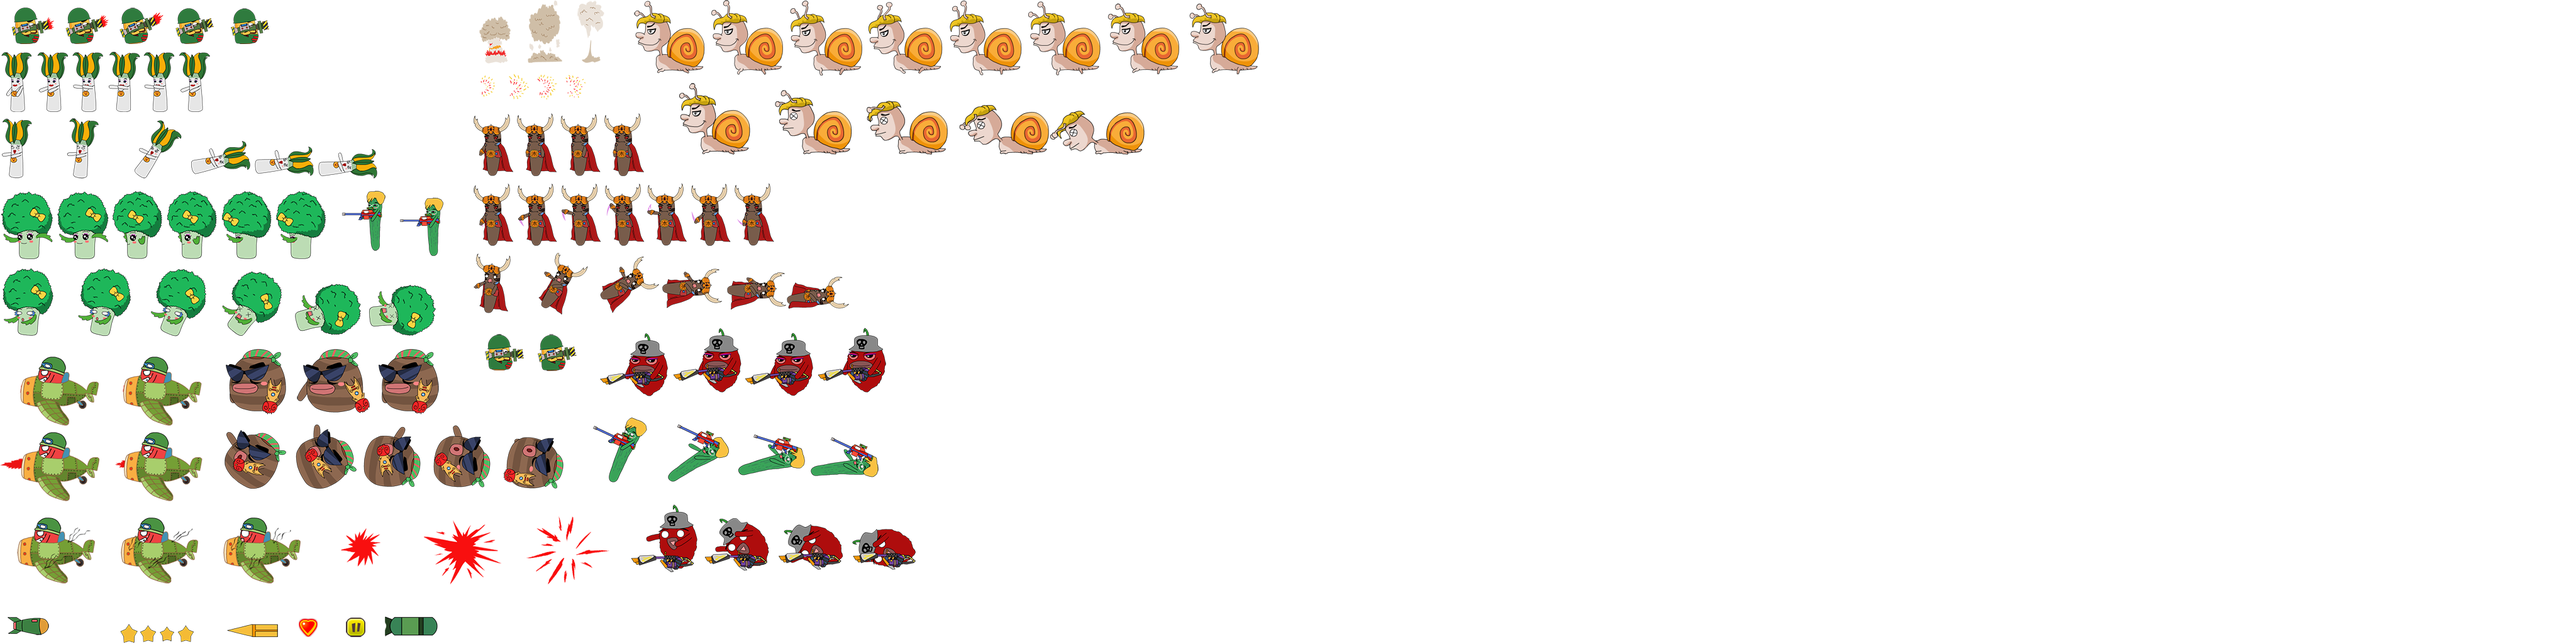
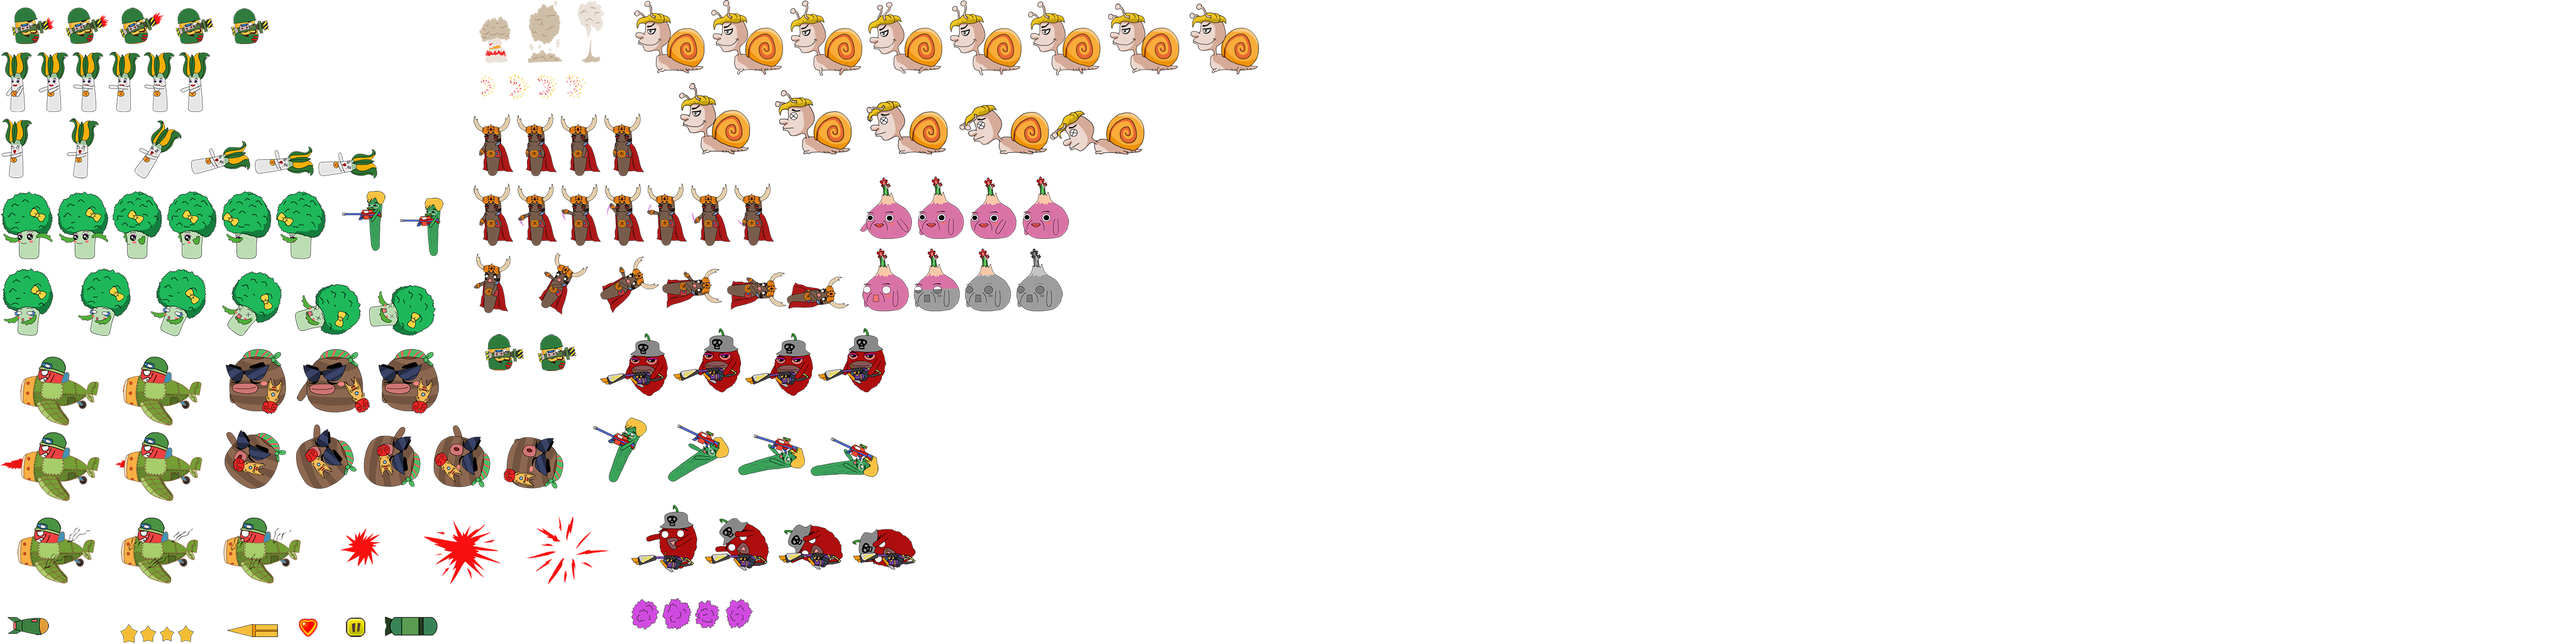
Added some bullets

Changed region(s): [[0.3125, 0.2812, 0.4375, 0.5], [0.2188, 0.9375, 0.3125, 0.9688]]

diff --git a/core/src/com/xqs/mypaoku/actor/enemy/YangcongEnemy.java b/core/src/com/xqs/mypaoku/actor/enemy/YangcongEnemy.java
@@ -2,36 +2,26 @@ package com.xqs.mypaoku.actor.enemy;
 
 import com.badlogic.gdx.graphics.g2d.Animation;
 import com.badlogic.gdx.graphics.g2d.TextureAtlas;
-import com.badlogic.gdx.math.MathUtils;
 import com.xqs.mypaoku.MyPaokuGame;
 import com.xqs.mypaoku.actor.Bullet;
-import com.xqs.mypaoku.actor.Player;
 import com.xqs.mypaoku.actor.Tower;
 import com.xqs.mypaoku.actor.base.BaseBullet;
 import com.xqs.mypaoku.actor.base.BaseEnemy;
 import com.xqs.mypaoku.res.Res;
 import com.xqs.mypaoku.stage.GameStage;
-import com.xqs.mypaoku.util.GameState;
 import com.xqs.mypaoku.util.TextureUtil;
-import com.xqs.mypaoku.util.Util;
 
 /**
- * Created by Administrator on 2017/3/4 0004.
+ * Created by Administrator on 2017/5/8 0008.
  */
 
-public class CaihuaEnemy extends BaseEnemy {
-
-    public final static String TAG="CaihuaEnemy";
+public class YangcongEnemy extends BaseEnemy {
+    public final static String TAG="YangcongEnemy";
 
     public final static int StartY=150;
 
-
-
-    public CaihuaEnemy(MyPaokuGame mainGame) {
+    public YangcongEnemy(MyPaokuGame mainGame) {
         super(mainGame);
-
-        this.mainGame=mainGame;
-
         position.x=this.mainGame.getWorldWidth();
         position.y=StartY;
 
@@ -45,33 +35,26 @@ public class CaihuaEnemy extends BaseEnemy {
     @Override
     public void fire() {
         super.fire();
-        GameStage.getInstance(mainGame).generateEnemyBullet(BaseBullet.CAIHUA,getX(),getY()+getHeight()/2);
+        GameStage.getInstance(mainGame).generateEnemyBullet(BaseBullet.YANGCONG,getX(),getY()+getHeight()/2);
     }
 
     @Override
     public Animation getWalkAnimation() {
-        TextureAtlas.AtlasRegion walkRegion=mainGame.getAtlas().findRegion(Res.Atlas.IMAGE_ENEMY_CAIHUA_WALK);
-        Animation walkAnimation = new  Animation(0.08F, TextureUtil.getTextureRegions(walkRegion,1,6));
+        TextureAtlas.AtlasRegion walkRegion=mainGame.getAtlas().findRegion(Res.Atlas.IMAGE_ENEMY_YANGCONG_WALK);
+        Animation walkAnimation = new  Animation(0.2F, TextureUtil.getTextureRegions(walkRegion,1,4));
         return walkAnimation;
     }
 
     @Override
     public Animation getFireAnimation() {
-        return getWalkAnimation(); // 与walk相同
+        return getWalkAnimation();
     }
 
     @Override
     public Animation getHurtAnimation() {
-        TextureAtlas.AtlasRegion deadRegion=mainGame.getAtlas().findRegion(Res.Atlas.IMAGE_ENEMY_CAIHUA_DEAD);
-        Animation hurtAnimation = new  Animation(0.1F, TextureUtil.getTextureRegions(deadRegion,1,6));
-        return hurtAnimation;
-    }
-
-
-    @Override
-    public void act(float delta) {
-
-        super.act(delta);
+        TextureAtlas.AtlasRegion region=mainGame.getAtlas().findRegion(Res.Atlas.IMAGE_ENEMY_YANGCONG_DEAD);
+        Animation animation = new  Animation(0.2F, TextureUtil.getTextureRegions(region,1,4));
+        return animation;
     }
 
     @Override
@@ -85,5 +68,6 @@ public class CaihuaEnemy extends BaseEnemy {
                 GameStage.getInstance(mainGame).minusLife();
             }
         }
+
     }
 }

diff --git a/core/src/com/xqs/mypaoku/stage/GameStage.java b/core/src/com/xqs/mypaoku/stage/GameStage.java
@@ -23,12 +23,14 @@ import com.xqs.mypaoku.actor.bullet.CaihuaBullet;
 import com.xqs.mypaoku.actor.bullet.PlaneBullet;
 import com.xqs.mypaoku.actor.bullet.PlayerOneBullet;
 import com.xqs.mypaoku.actor.bullet.PlayerTwoBullet;
+import com.xqs.mypaoku.actor.bullet.YangcongBullet;
 import com.xqs.mypaoku.actor.enemy.CaihuaEnemy;
 import com.xqs.mypaoku.actor.enemy.DacongEnemy;
 import com.xqs.mypaoku.actor.enemy.HuangguaEnemy;
 import com.xqs.mypaoku.actor.enemy.LajiaoEnemy;
 import com.xqs.mypaoku.actor.enemy.MushuEnemy;
 import com.xqs.mypaoku.actor.enemy.WoniuEnemy;
+import com.xqs.mypaoku.actor.enemy.YangcongEnemy;
 import com.xqs.mypaoku.actor.enemy.YutouEnemy;
 import com.xqs.mypaoku.actor.npc.BulletOneBg;
 import com.xqs.mypaoku.actor.npc.BulletTwoBg;
@@ -181,7 +183,7 @@ public class GameStage extends BaseStage {
 
 		// player
         playerActor = new Player(this.getMainGame());
-        playerActor.setLife(5);
+        playerActor.setLife(15);
         addActor(playerActor);
 
         updateLifes();
@@ -309,6 +311,10 @@ public class GameStage extends BaseStage {
             PlaneBullet bullet = new PlaneBullet(getMainGame(), positionX, positionY, world);
             addActor(bullet);
             bulletList.add(bullet);
+        } else if (bulletType == BaseBullet.YANGCONG){
+            YangcongBullet bullet = new YangcongBullet(getMainGame(),positionX,positionY,world);
+            addActor(bullet);
+            bulletList.add(bullet);
         }
     }
 
@@ -341,6 +347,10 @@ public class GameStage extends BaseStage {
             enemyList.add(enemy);
         } else if (type == EnemyType.WONIU) {
             WoniuEnemy enemy = new WoniuEnemy(getMainGame());
+            addActor(enemy);
+            enemyList.add(enemy);
+        } else if(type == EnemyType.YANGCONG){
+            YangcongEnemy enemy = new YangcongEnemy(getMainGame());
             addActor(enemy);
             enemyList.add(enemy);
         }
@@ -459,6 +469,10 @@ public class GameStage extends BaseStage {
                         bullet.explode();
                         break;
                     case BaseBullet.PLANE:
+                        playerActor.minusLife();
+                        bullet.explode();
+                        break;
+                    case BaseBullet.YANGCONG:
                         playerActor.minusLife();
                         bullet.explode();
                         break;

diff --git a/core/src/com/xqs/mypaoku/actor/bullet/YangcongBullet.java b/core/src/com/xqs/mypaoku/actor/bullet/YangcongBullet.java
@@ -1,0 +1,43 @@
+package com.xqs.mypaoku.actor.bullet;
+
+import com.badlogic.gdx.graphics.g2d.Animation;
+import com.badlogic.gdx.graphics.g2d.TextureAtlas;
+import com.badlogic.gdx.math.Vector2;
+import com.badlogic.gdx.physics.box2d.World;
+import com.xqs.mypaoku.MyPaokuGame;
+import com.xqs.mypaoku.actor.base.BaseBullet;
+import com.xqs.mypaoku.res.Res;
+import com.xqs.mypaoku.util.TextureUtil;
+
+/**
+ * Created by Administrator on 2017/5/8 0008.
+ */
+
+public class YangcongBullet extends BaseBullet {
+
+    public YangcongBullet(MyPaokuGame game, float positionX, float positionY, World world) {
+        super(game, positionX, positionY, world);
+
+        body.applyLinearImpulse(new Vector2(-80f, 0), body.getWorldCenter(), true);
+        body.setGravityScale(0); // 无重力
+    }
+
+    @Override
+    public Animation getFlyAnimation() {
+        TextureAtlas.AtlasRegion region = game.getAtlas().findRegion(Res.Atlas.IMAGE_BULLET_YANGCONG_FLY);
+        Animation animation = new Animation(0.1F, TextureUtil.getTextureRegions(region, 1, 4));
+        return animation;
+    }
+
+    @Override
+    public Animation getExplodeAnimation() {
+        TextureAtlas.AtlasRegion region = game.getAtlas().findRegion(Res.Atlas.IMAGE_BULLET_TWO_EXPLODE);
+        Animation animation = new Animation(0.1F, TextureUtil.getTextureRegions(region, 1, 4));
+        return animation;
+    }
+
+    @Override
+    public int getBulletType() {
+        return YANGCONG;
+    }
+}

diff --git a/core/src/com/xqs/mypaoku/res/Level.java b/core/src/com/xqs/mypaoku/res/Level.java
@@ -8,22 +8,22 @@ public class Level {
 
 
     public static int level01[][]={
-            {10,EnemyType.CAIHUA},{20,EnemyType.LAJIAO},{30,EnemyType.CAIHUA},{40,EnemyType.LAJIAO},
+            {10,EnemyType.CAIHUA},{20,EnemyType.YANGCONG},{30,EnemyType.CAIHUA},{40,EnemyType.YANGCONG},
             {50,EnemyType.END}
     };
 
     public static int level02[][]={
-            {10,EnemyType.CAIHUA},{20,EnemyType.HUANGGUA},{30,EnemyType.DACONG},{40,EnemyType.LAJIAO},
+            {10,EnemyType.YANGCONG},{20,EnemyType.HUANGGUA},{30,EnemyType.DACONG},{40,EnemyType.LAJIAO},
             {50,EnemyType.END}
     };
 
     public static int level03[][]={
-            {10,EnemyType.CAIHUA},{20,EnemyType.LAJIAO},{30,EnemyType.CAIHUA},{40,EnemyType.LAJIAO},
+            {10,EnemyType.YANGCONG},{20,EnemyType.LAJIAO},{30,EnemyType.CAIHUA},{40,EnemyType.LAJIAO},
             {50,EnemyType.END}
     };
 
     public static int level04[][]={
-            {10,EnemyType.CAIHUA},{20,EnemyType.DACONG}, {30,EnemyType.HUANGGUA},{40,EnemyType.MUSHU},
+            {10,EnemyType.YANGCONG},{20,EnemyType.DACONG}, {30,EnemyType.HUANGGUA},{40,EnemyType.MUSHU},
             {50,EnemyType.YUTOU},{60,EnemyType.CAIHUA},{70,EnemyType.DACONG}, {80,EnemyType.HUANGGUA},
             {90,EnemyType.MUSHU},{100,EnemyType.YUTOU},{110,EnemyType.END}
     };

diff --git a/core/src/com/xqs/mypaoku/res/Res.java b/core/src/com/xqs/mypaoku/res/Res.java
@@ -71,6 +71,12 @@ public class Res {
         public static final String IMAGE_BULLET_THREE_FlY = "bullet_three_fly";
         public static final String IMAGE_BULLET_THREE_EXPLODE = "bullet_three_explode";
 
+        public static final String IMAGE_BULLET_YANGCONG_FLY = "bullet_yangcong_fly";
+
+        /* 洋葱 */
+        public static final String IMAGE_ENEMY_YANGCONG_WALK = "yangcong_walk";
+        public static final String IMAGE_ENEMY_YANGCONG_DEAD = "yangcong_dead";
+
         /* 大葱 */
         public static final String IMAGE_ENEMY_DACONG_WALK = "dacong_walk";
         public static final String IMAGE_ENEMY_DACONG_DEAD = "dacong_dead";

diff --git a/core/src/com/xqs/mypaoku/actor/base/BaseBullet.java b/core/src/com/xqs/mypaoku/actor/base/BaseBullet.java
@@ -33,6 +33,7 @@ public abstract class BaseBullet extends AnimationActor {
     public static final int CAIHUA = 1;
     public static final int PLANE = 2;
     public static final int PLAYER2 = 3;
+    public static final int YANGCONG = 4;
 
 
     //子弹位置

diff --git a/core/src/com/xqs/mypaoku/res/EnemyType.java b/core/src/com/xqs/mypaoku/res/EnemyType.java
@@ -16,6 +16,7 @@ public class EnemyType {
     public static final int HUANGGUA = 24;
     public static final int LAJIAO=25;
     public static final int WONIU = 26;
+    public static final int YANGCONG = 27;
     public static final int END = 100;
 
 }
